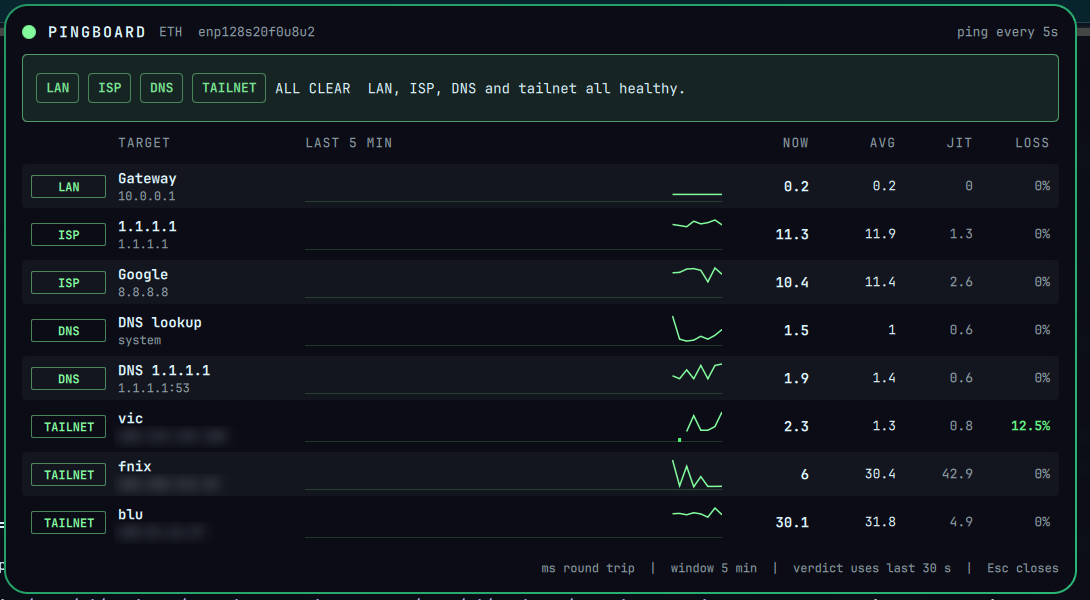
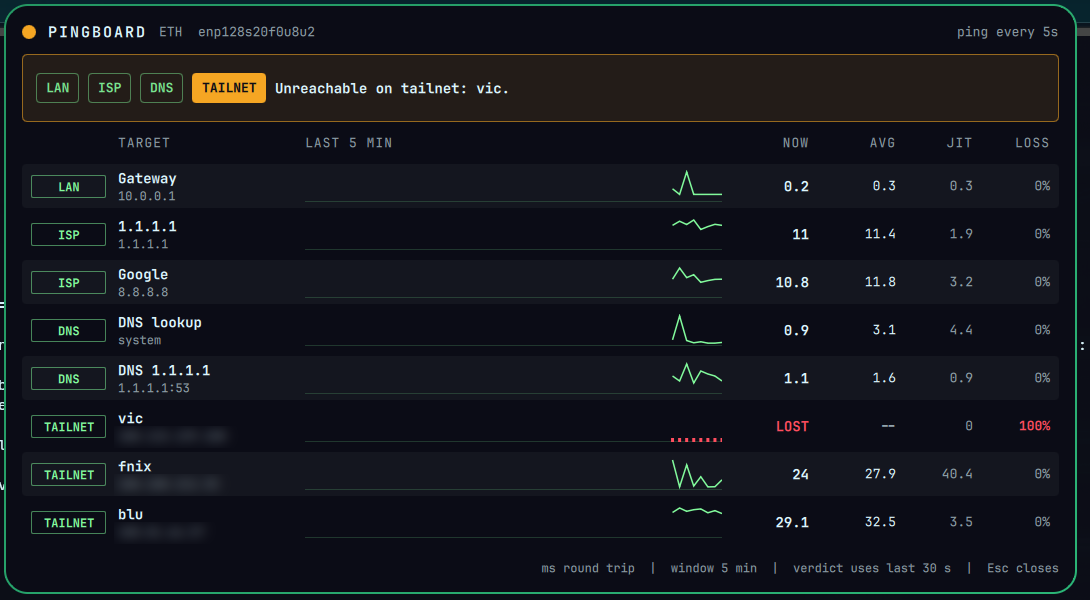
fix: Pingboard warn/down colours pinned to amber/red, never derived from theme urgent
WHAT: Degraded (warn) state is now fixed amber #f5a623 and down is fixed red
#ff4d5e in BarWidget.qml and PingPanel.qml (verdict strip, header dot, bar dot,
NOW LOST text, LOSS column, sparkline loss ticks). Healthy stays Color.accent.
WHY: warn was Qt.tint(accent, urgent) and looked healthy on green themes. Worse,
Omarchy derives Color.urgent from the theme's "red"/color1, and gus's current
theme sets red = #50f872 (green), so "down" also rendered green. The palette
has no warning token, so neither state can safely derive from the theme.
PROOF: docs/panel-gus.png re-shot live on gus during a real vic outage: amber
TAILNET verdict, red LOST/100% for vic, green healthy rows. Bottom edge intact.
README updated to describe the fixed status colours.
TAGS: omarchy, plugin, pingboard, colour, theme, urgent, warn, amber, qml

LR-T: pingboard warn-colour fix, theme urgent can be green
LR-D: fixed amber/red status colours, accent only for healthy
LR-K: nixfred.pingboard, Color.urgent, colors.toml red, #50f872
Claude-Session: https://claude.ai/code/session_01Fu6MCiLChCtwP22GT3Yy5A

diff --git a/PingPanel.qml b/PingPanel.qml
@@ -20,7 +20,10 @@ Panel {
   readonly property color foreground: widget.bar ? widget.bar.foreground : Color.foreground
   readonly property color dim: Util.alpha(foreground, 0.62)
   readonly property color faint: Util.alpha(foreground, 0.10)
-  readonly property color warnColor: Qt.tint(Color.accent, Util.alpha(Color.urgent, 0.55))
+  // Fixed status colours: the palette has no warning token, and some themes
+  // map red/urgent to green (e.g. #50f872), so neither can be derived.
+  readonly property color downColor: "#ff4d5e"
+  readonly property color warnColor: "#f5a623"
   readonly property string fontFamily: widget.bar ? widget.bar.fontFamily : Style.font.family
   readonly property string mono: "monospace"
 
@@ -28,9 +31,9 @@ Panel {
   readonly property int rowH: Style.space(38)
   readonly property int maxRows: 10
 
-  function levelColor(l) { return l === "down" ? Color.urgent : l === "warn" ? panel.warnColor : Color.accent }
+  function levelColor(l) { return l === "down" ? panel.downColor : l === "warn" ? panel.warnColor : Color.accent }
   function msColor(t) {
-    if (!t || t.last === null) return Color.urgent
+    if (!t || t.last === null) return panel.downColor
     if (t.recentLoss > 15) return panel.warnColor
     return panel.foreground
   }
@@ -253,7 +256,7 @@ Panel {
                 Layout.bottomMargin: Style.space(5)
                 property var hist: modelData.history
                 property color lineColor: Color.accent
-                property color lossColor: Color.urgent
+                property color lossColor: panel.downColor
                 onHistChanged: requestPaint()
                 onWidthChanged: requestPaint()
                 onPaint: {
@@ -322,7 +325,7 @@ Panel {
                 Layout.preferredWidth: Style.space(56)
                 horizontalAlignment: Text.AlignRight
                 text: modelData.loss + "%"
-                color: modelData.loss > 15 ? Color.urgent : modelData.loss > 0 ? panel.warnColor : panel.dim
+                color: modelData.loss > 15 ? panel.downColor : modelData.loss > 0 ? panel.warnColor : panel.dim
                 font.family: panel.mono
                 font.pixelSize: Style.font.bodySmall
                 font.bold: modelData.loss > 0

diff --git a/BarWidget.qml b/BarWidget.qml
@@ -2,9 +2,8 @@ import QtQuick
 import Quickshell
 import qs.Commons
 import qs.Ui
-
-// A health dot plus the internet round trip. Accent = healthy, a blend of
-// accent and urgent = degraded, urgent = down. All colours come from the
+// A health dot plus the internet round trip. Theme accent = healthy, fixed
+// amber = degraded, fixed red = down (themes may map urgent to green).
 // active theme.
 BarWidget {
   id: root
@@ -23,8 +22,9 @@ BarWidget {
   readonly property color foreground: bar ? bar.foreground : Color.foreground
 
   readonly property color dotColor: !ready ? Util.alpha(foreground, 0.3)
-    : level === "down" ? Color.urgent
-    : level === "warn" ? Qt.tint(Color.accent, Util.alpha(Color.urgent, 0.55))
+    : level === "down" ? "#ff4d5e"
+    // Fixed amber/red: some themes map urgent to green, so status never derives from it.
+    : level === "warn" ? "#f5a623"
     : Color.accent
 
   readonly property string msText: {
@@ -80,7 +80,7 @@ BarWidget {
         visible: root.showMs
         anchors.verticalCenter: parent.verticalCenter
         text: root.msText
-        color: root.level === "down" ? Color.urgent : root.foreground
+        color: root.level === "down" ? "#ff4d5e" : root.foreground
         font.family: root.bar ? root.bar.fontFamily : Style.font.family
         font.pixelSize: Style.font.bodySmall
       }

diff --git a/README.md b/README.md
@@ -31,7 +31,7 @@ Looks at the last 30 s: gateway dead means **LAN**; gateway fine but both public
 
 ## Panel
 
-Everything fits on one screen. The target list is a bounded box that only scrolls in place once you watch more than ten targets. Hover a column head, row tag or sparkline for detail. Colours follow the active Omarchy theme: accent is healthy, urgent is down.
+Everything fits on one screen. The target list is a bounded box that only scrolls in place once you watch more than ten targets. Hover a column head, row tag or sparkline for detail. Colours follow the active Omarchy theme: accent is healthy. Degraded is a fixed amber and down is a fixed red, because some themes map their "red" to green.
 
 ## Install
 
